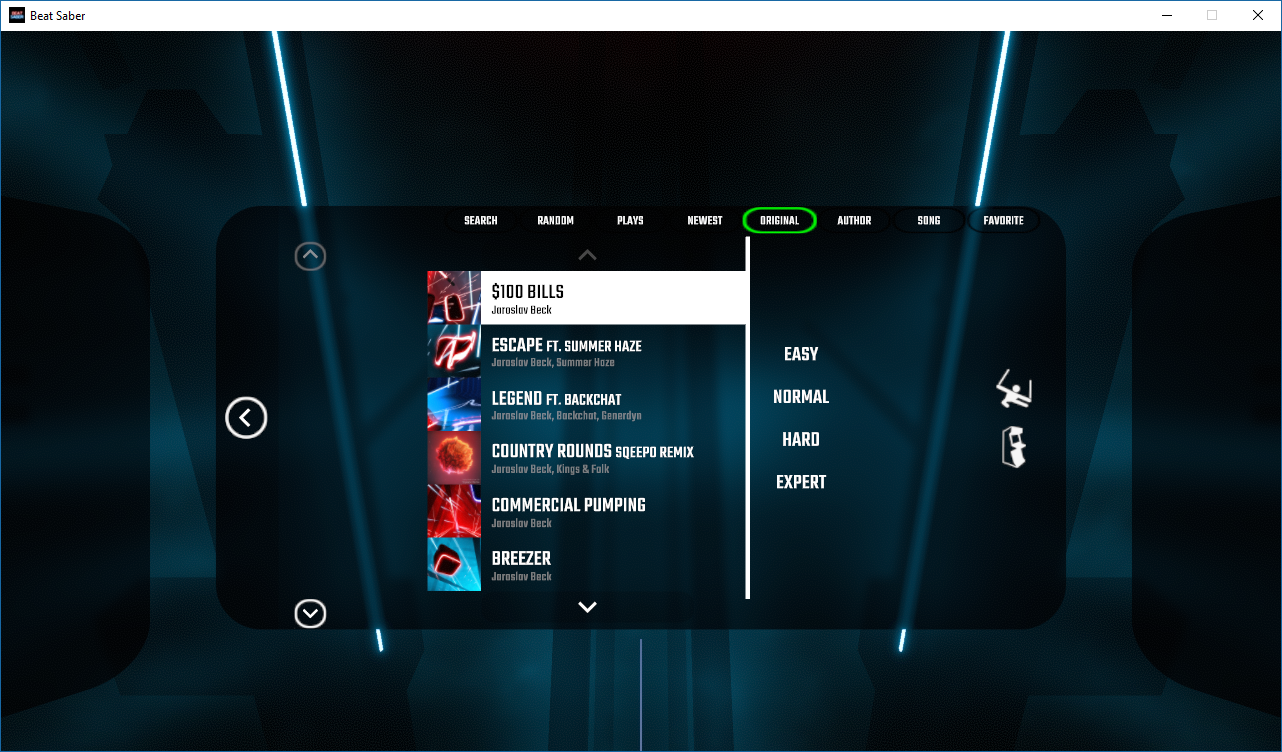
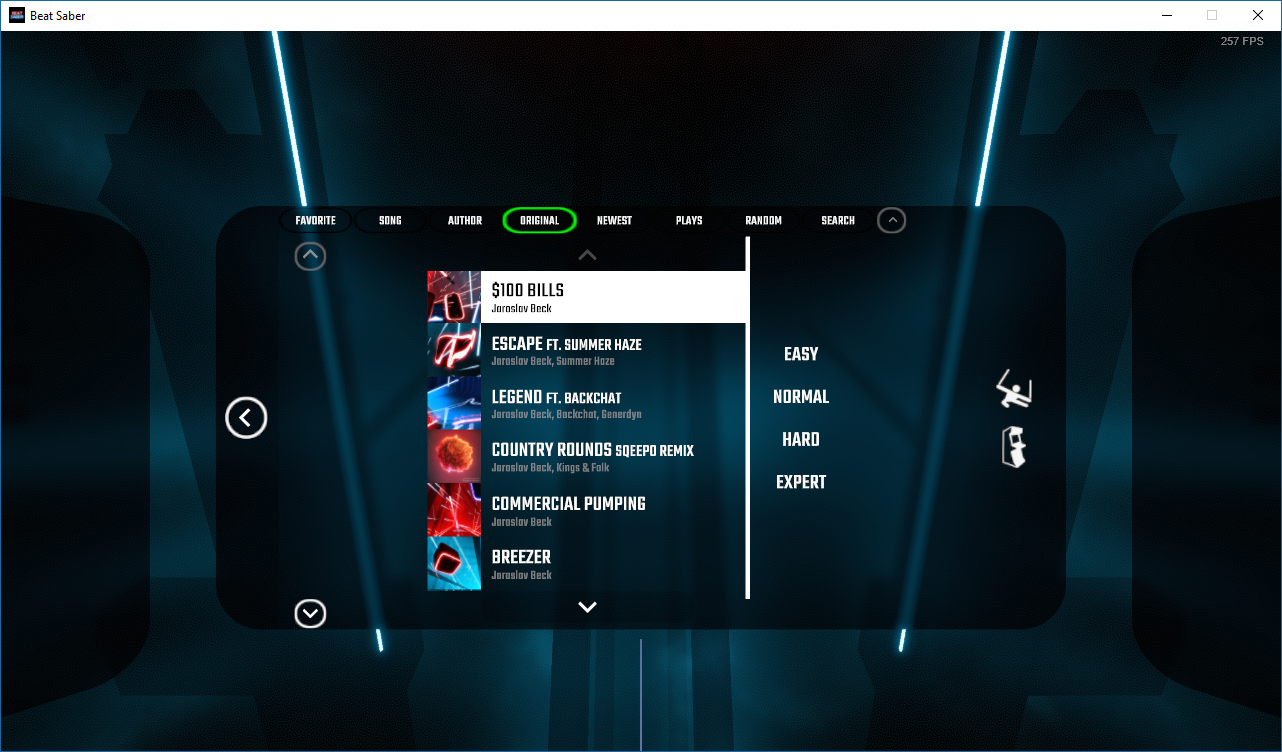
Original songs show back up.

diff --git a/SongBrowserPlugin/SongBrowserModel.cs b/SongBrowserPlugin/SongBrowserModel.cs
@@ -284,7 +284,7 @@ namespace SongBrowserPlugin
 
             foreach (StandardLevelSO level in _originalSongs)
             {
-                if (level.levelID.Length < 32) continue;
+                //if (level.levelID.Length < 32) continue;
                 AddItemToDirectoryTree(customSongDirUri, level);
             }
 
@@ -322,12 +322,19 @@ namespace SongBrowserPlugin
         private void AddItemToDirectoryTree(Uri customSongDirUri, StandardLevelSO level)
         {
             DirectoryNode currentNode = _directoryTree[CUSTOM_SONGS_DIR];
+            
+            // Just add original songs to root and bail
+            if (level.levelID.Length < 32)
+            {
+                currentNode.Levels.Add(level);
+                return;
+            }
+
             CustomSongInfo songInfo = _levelIdToCustomLevel[level.levelID].customSongInfo;            
             Uri customSongUri = new Uri(songInfo.path);
             Uri pathDiff = customSongDirUri.MakeRelativeUri(customSongUri);
             string relPath = Uri.UnescapeDataString(pathDiff.OriginalString);
             string[] paths = relPath.Split('/');
-
             Sprite folderIcon = Base64Sprites.Base64ToSprite(Base64Sprites.Folder);
 
             // Prevent cache directory from building into the tree, will add all its leafs to root.
